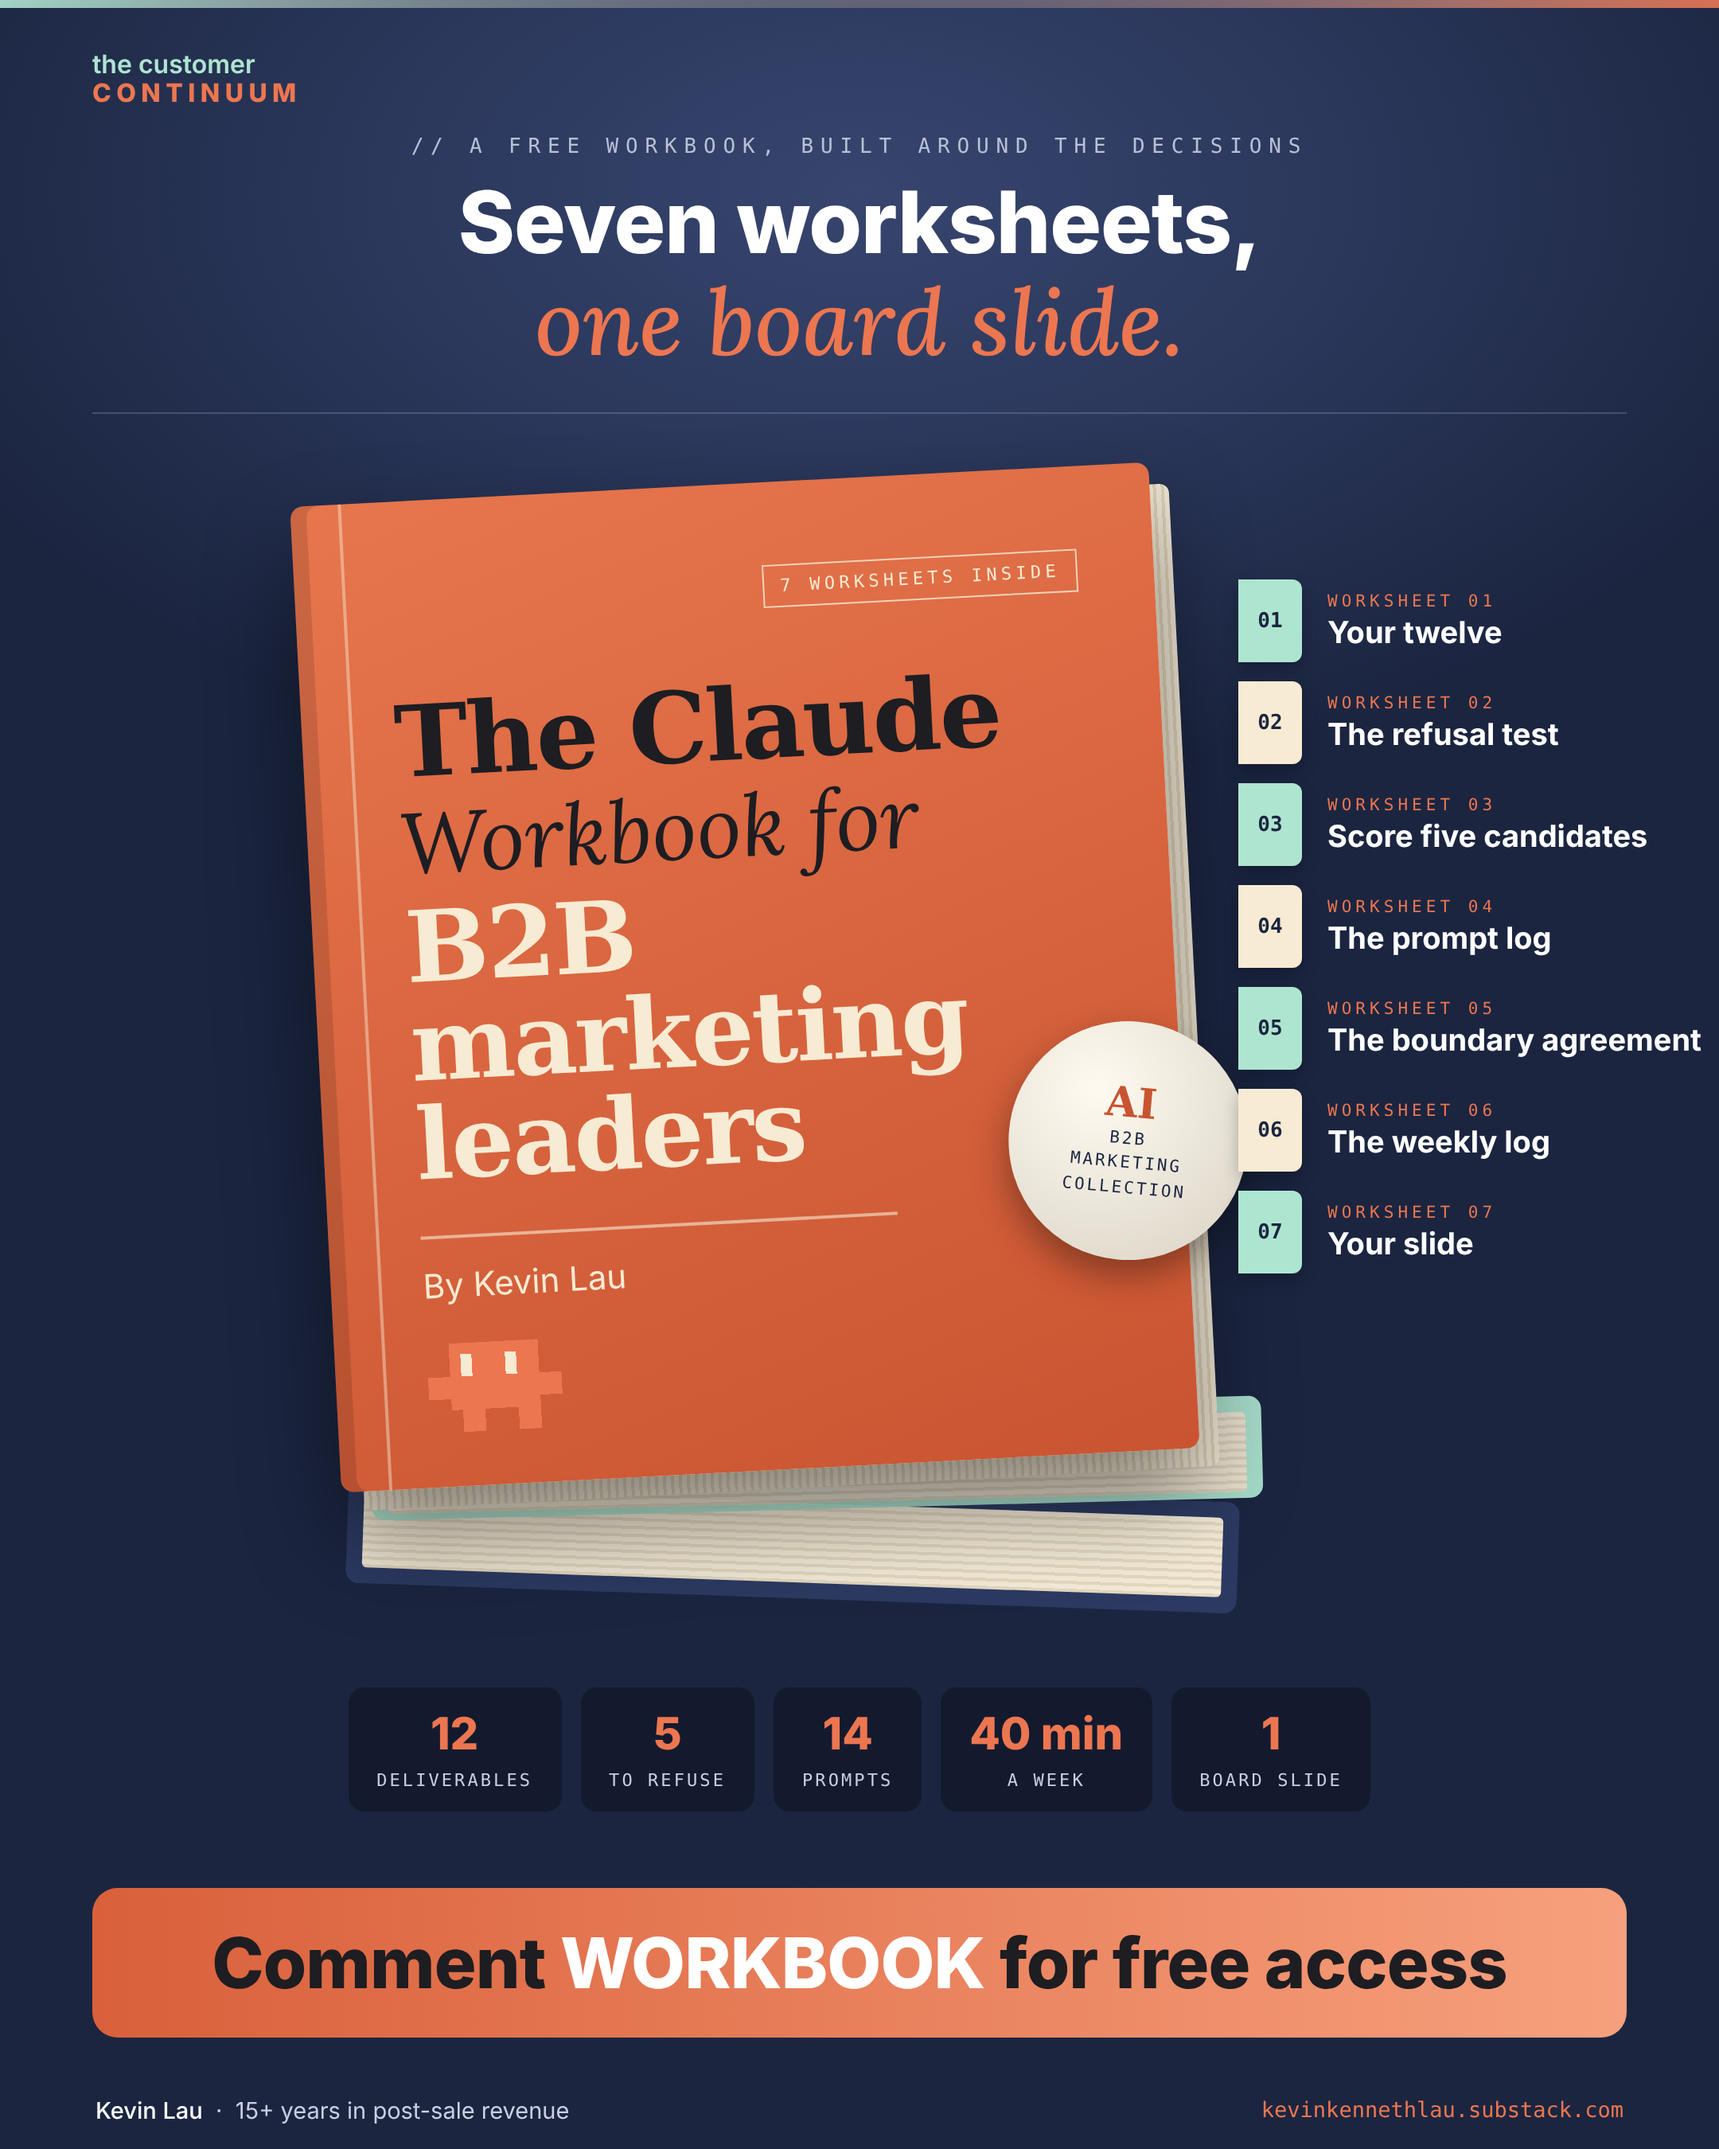
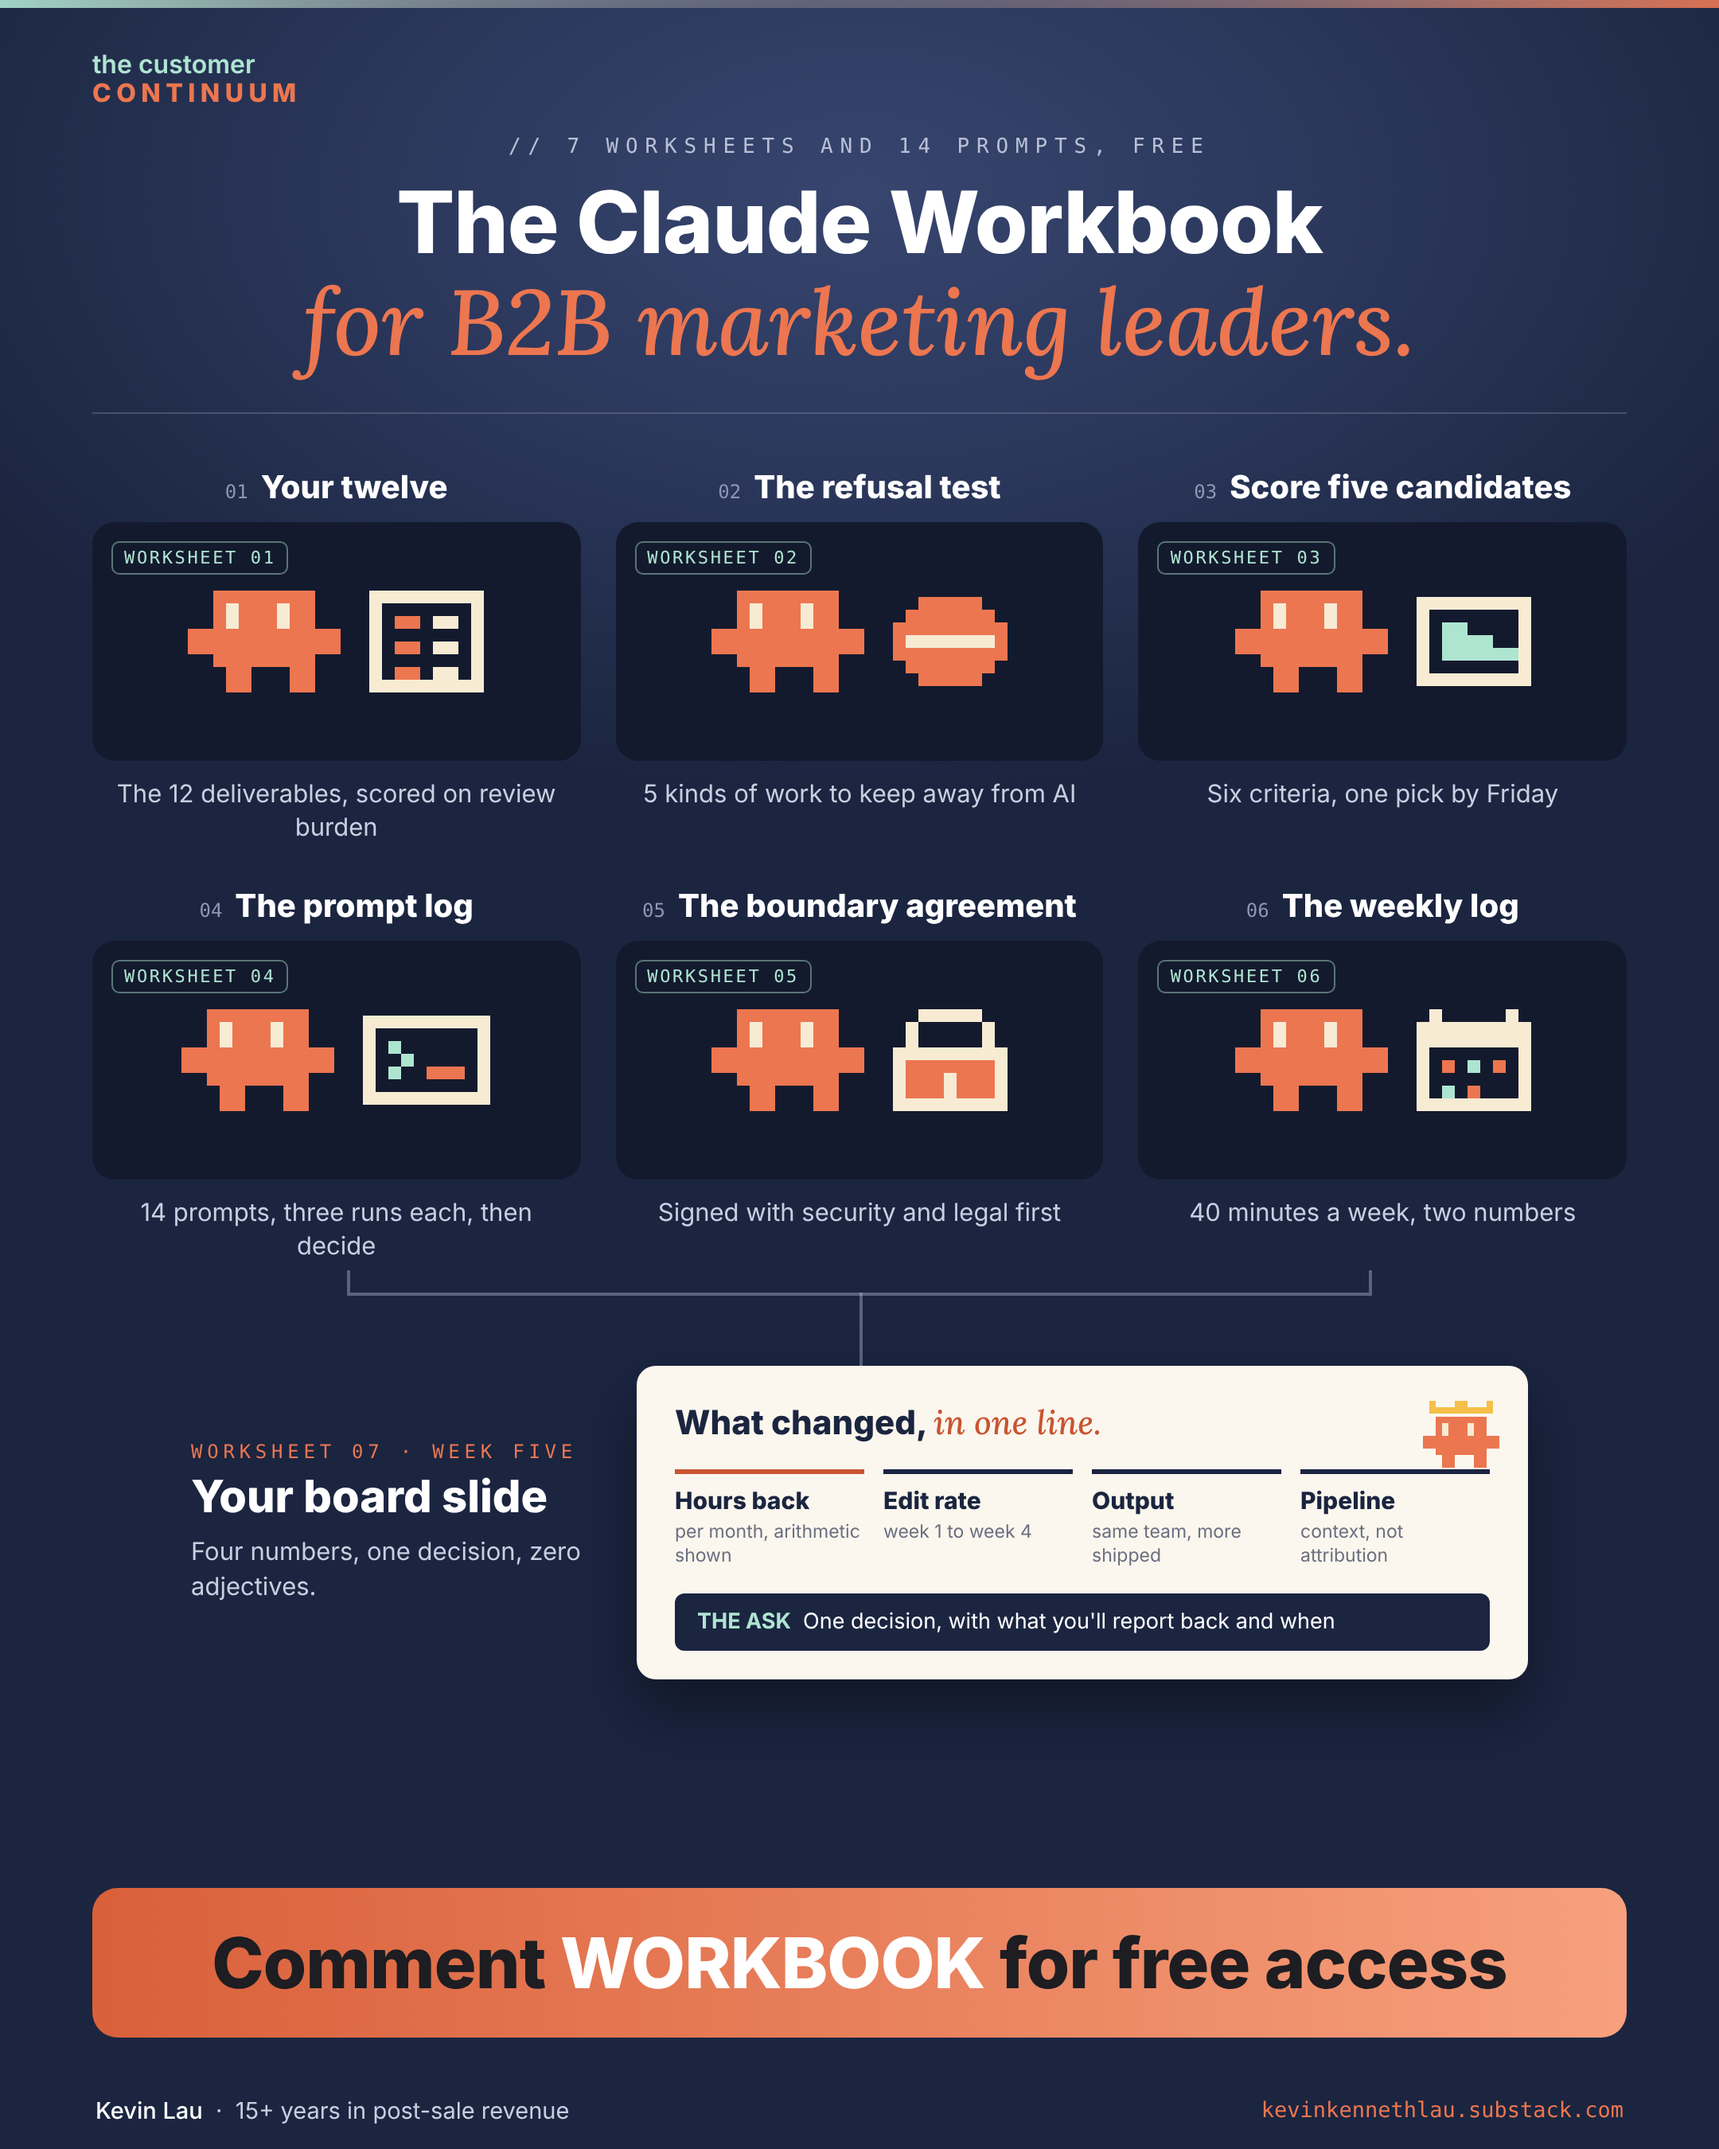
B2B marketing workbook: new cover
Claude-Session: https://claude.ai/code/session_012xxCSCs4iEyAjtvvBQervn

diff --git a/app/resources/claude-b2b-marketing-workbook/page.js b/app/resources/claude-b2b-marketing-workbook/page.js
@@ -27,7 +27,7 @@ const resource = {
   coverEmoji: "📙",
   coverImage: "/assets/claude_b2b_marketing_workbook.png",
   coverImageAlt:
-    "The Claude Workbook for B2B marketing leaders: seven worksheets, one board slide",
+    "The Claude Workbook for B2B marketing leaders: six worksheets feeding one board slide",
   coverAspectRatio: "2160 / 2700",
   downloadUrl: "/guides/claude-b2b-marketing-workbook",
 };
